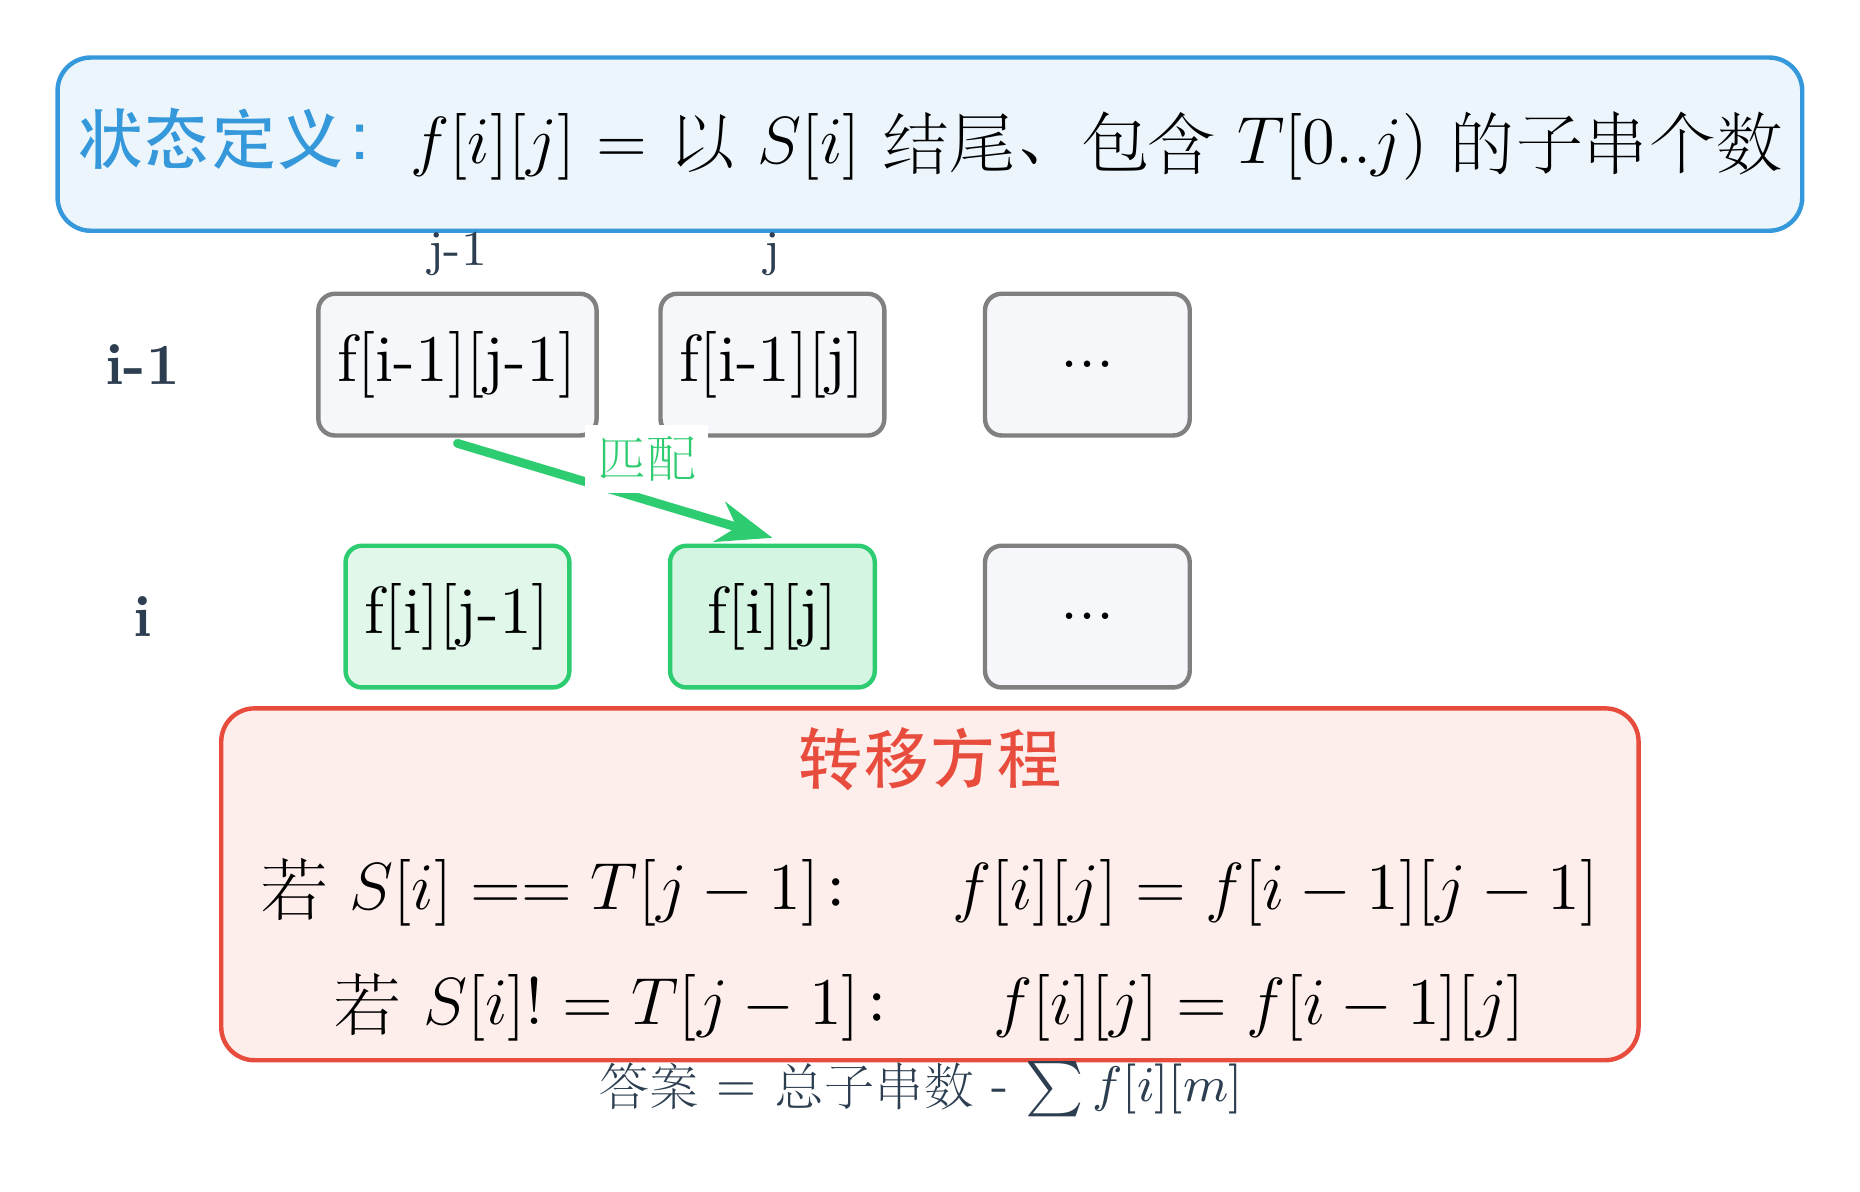
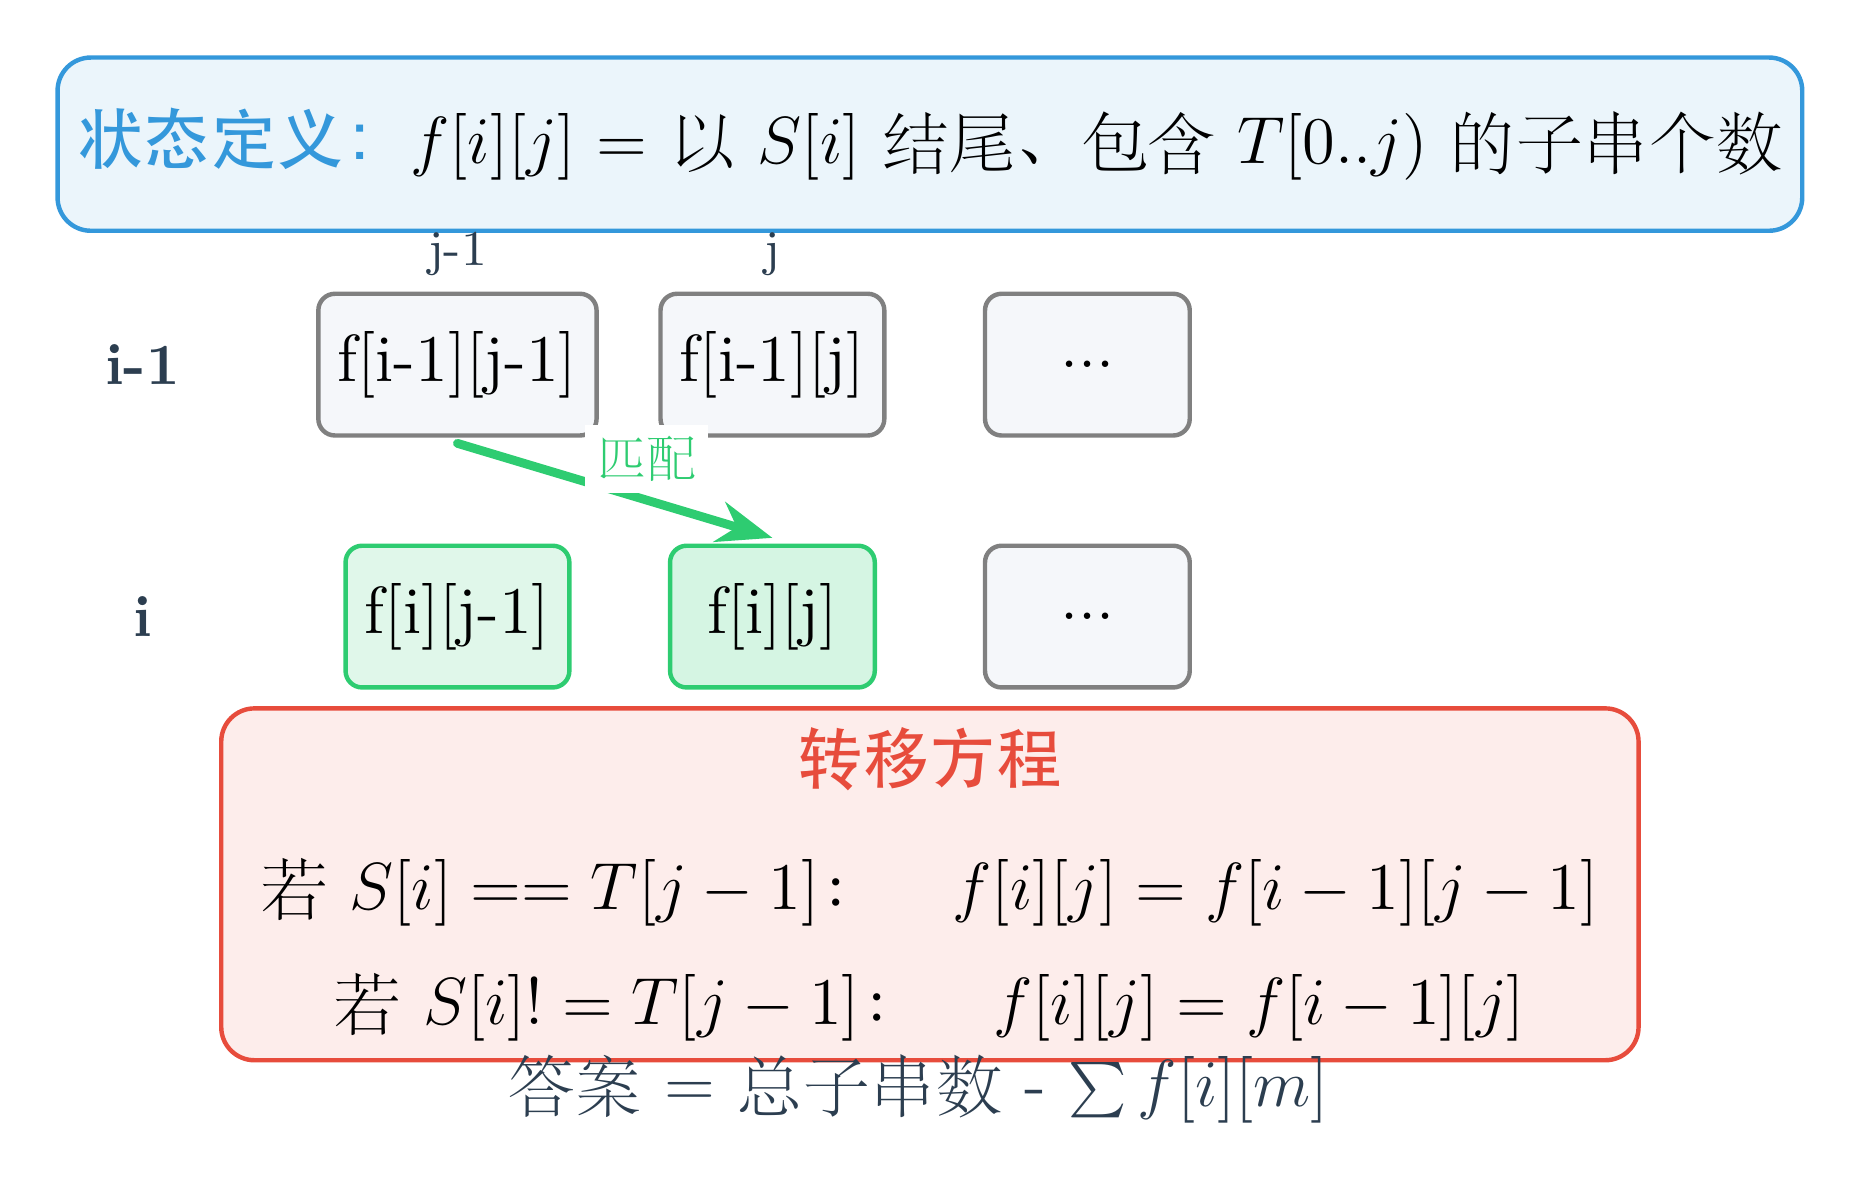
Enlarge bottom text in D diagram to match state definition font size

diff --git a/ABC452/figures/d_diagram.tex b/ABC452/figures/d_diagram.tex
@@ -54,7 +54,7 @@
   };
 
   % ========== Bottom note ==========
-  \node[darktext, font=\small, align=center] at (5.5,0.2) {
+  \node[darktext, align=center] at (5.5,0.2) {
     答案 = 总子串数 - $\sum f[i][m]$
   };
 
